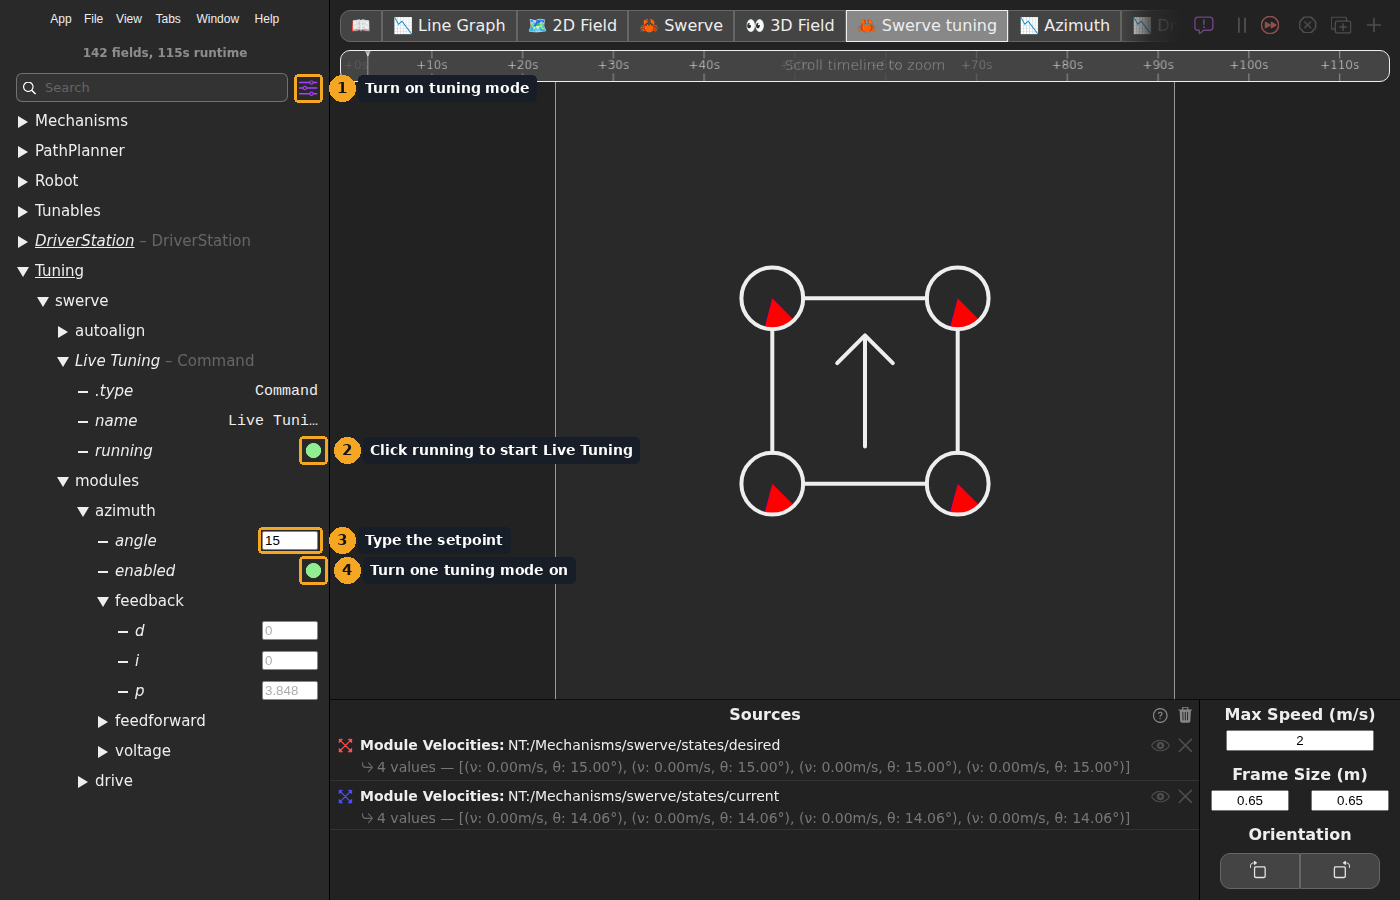
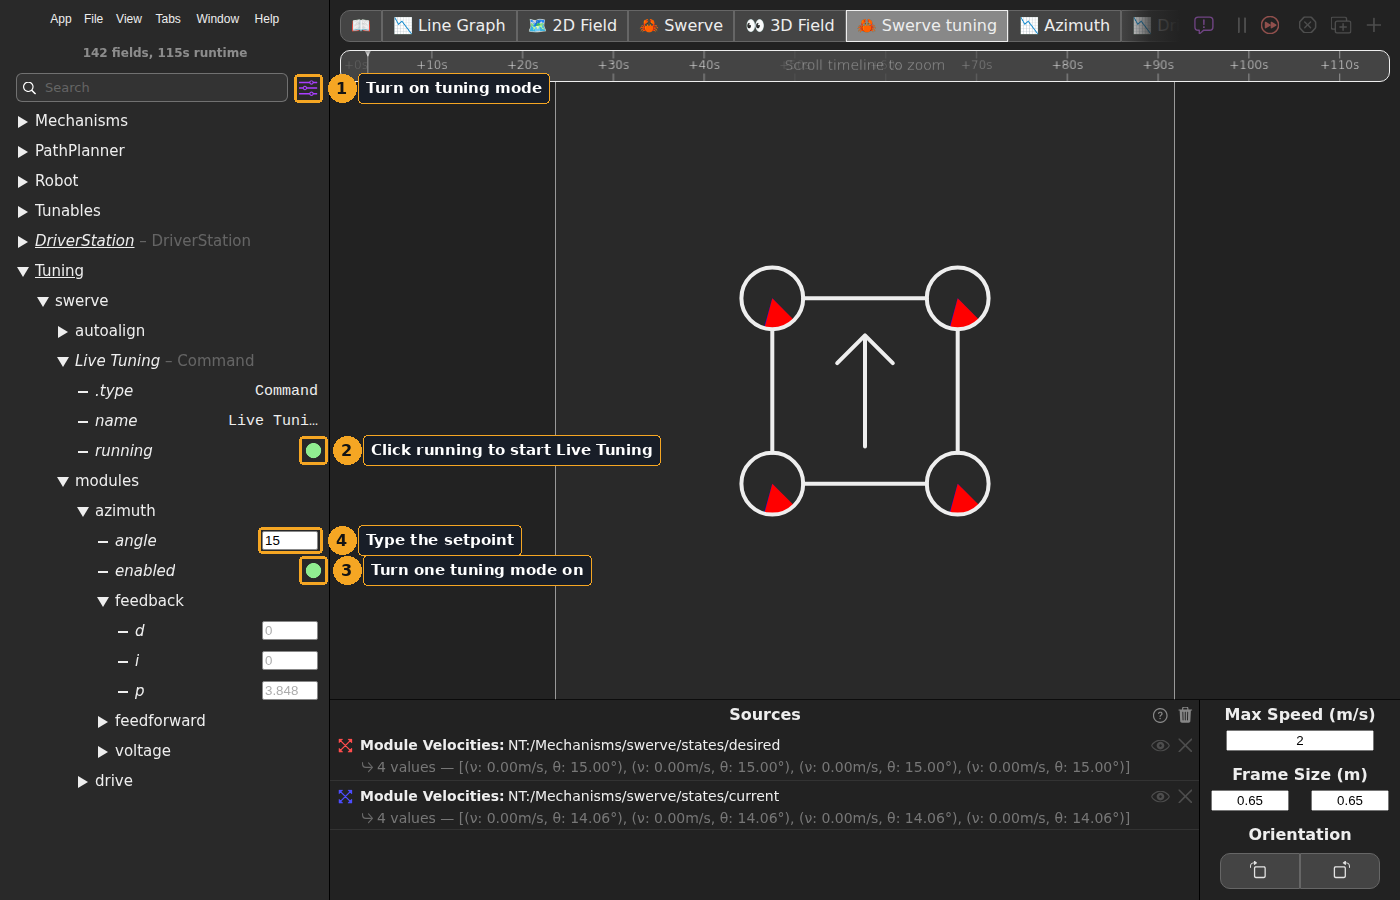
Live tuning: a recording of AdvantageScope instead of a drawn animation
The new GIF is recorded from AdvantageScope connected to the YAGSL Commands v2 example in
simulation: turn on tuning mode, start Live Tuning, turn on azimuth tuning, type a setpoint, and the
modules turn to it. Each step boxes the control to press. It replaces the drawn animation on the
practice in simulation and Tune PIDF gains pages.

The annotated still now numbers the steps in the same order, turning azimuth tuning on before typing
the setpoint, as the page's instructions do.

Changed region(s): [[0.2457, 0.5911, 0.43, 0.6533], [0.2457, 0.4978, 0.4607, 0.5289], [0.2457, 0.0622, 0.3993, 0.1244]]

diff --git a/tutorial/practice-in-simulation.md b/tutorial/practice-in-simulation.md
@@ -11,11 +11,11 @@ explains each piece.
 
 **Start live tuning.** Enable Utility mode, start the `Tuning/swerve/Live Tuning` command, and turn on one tuning mode. `Tuning/swerve/` values only take effect while the command runs.
 
-<figure><img src="../.gitbook/assets/yagsl-live-tuning-start.gif" alt="An animation of a dashboard. First the robot mode is set to Utility. Then Tuning/swerve/Live Tuning is set to running: true. Then Tuning/swerve/modules/azimuth/enabled is set to true. Notes beside it explain each step: Utility mode with nothing else driving, starting the tuning command, and picking one tuning mode at a time."><figcaption><p>Utility mode, the tuning command, then one tuning mode.</p></figcaption></figure>
-
 <figure><img src="../.gitbook/assets/yagsl-sim-utility-mode.png" alt="The Robot State panel of the WPILib simulation GUI with two numbered markers: 1 on Utility and 2 on Enable. The OpMode dropdown is left at NONE."><figcaption><p>In simulation: in the sim GUI's Robot State panel, pick Utility (1), then Enable (2). Leave the OpMode at NONE, because a teleop op mode would drive the modules and fight the tuning.</p></figcaption></figure>
 
-<figure><img src="../.gitbook/assets/yagsl-ascope-enable-tuning.png" alt="AdvantageScope connected to the simulation with four numbered markers. 1 is the tuning mode button beside the sidebar search, which makes the values editable. 2 is the running switch under Tuning/swerve/Live Tuning, which starts the tuning command. 3 is the angle field under Tuning/swerve/modules/azimuth, where you type the setpoint. 4 is the enabled switch under Tuning/swerve/modules/azimuth, which turns azimuth tuning on."><figcaption><p>In AdvantageScope: turn on tuning mode (1), click <code>running</code> to start the tuning command (2), type the setpoint (3), then turn one tuning mode on (4).</p></figcaption></figure>
+<figure><img src="../.gitbook/assets/yagsl-ascope-live-tuning.gif" alt="A recording of AdvantageScope connected to the YAGSL example in simulation, in Utility mode. 1: the tuning mode button beside the sidebar search is clicked, and the values under Tuning become editable. 2: running under Tuning/swerve/Live Tuning is clicked and turns green. 3: enabled under Tuning/swerve/modules/azimuth is clicked and turns green. 4: 15 is typed into angle and Enter pressed. 5: in the Swerve tab every module turns to 15 degrees."><figcaption><p>Starting live tuning in AdvantageScope, recorded in simulation.</p></figcaption></figure>
+
+<figure><img src="../.gitbook/assets/yagsl-ascope-enable-tuning.png" alt="AdvantageScope connected to the simulation with four numbered markers. 1 is the tuning mode button beside the sidebar search, which makes the values editable. 2 is the running switch under Tuning/swerve/Live Tuning, which starts the tuning command. 3 is the enabled switch under Tuning/swerve/modules/azimuth, which turns azimuth tuning on. 4 is the angle field under Tuning/swerve/modules/azimuth, where you type the setpoint."><figcaption><p>In AdvantageScope: turn on tuning mode (1), click <code>running</code> to start the tuning command (2), turn one tuning mode on (3), then type the setpoint (4).</p></figcaption></figure>
 
 **Tune the azimuth first**, so the wheels point where they are told while you tune the drive. Set `Tuning/swerve/modules/azimuth/enabled` to `true` and switch `modules/azimuth/angle` between `0` and `15`. Raise `feedback/p` until the modules snap to the angle; if they overshoot and shake, back it off and add a little `feedback/d`.
 

diff --git a/how-to/tune-pidf-gains.md b/how-to/tune-pidf-gains.md
@@ -162,11 +162,11 @@ var cfg = new SwerveDriveConfig()
 
 `swerve` in these paths is the telemetry name from `withTelemetry("swerve", ...)`.
 
-<figure><img src="../.gitbook/assets/yagsl-live-tuning-start.gif" alt="An animation of a dashboard. First the robot mode is set to Utility. Then Tuning/swerve/Live Tuning is set to running: true. Then Tuning/swerve/modules/azimuth/enabled is set to true."><figcaption><p>Utility mode, the tuning command, then one tuning mode.</p></figcaption></figure>
-
 <figure><img src="../.gitbook/assets/yagsl-sim-utility-mode.png" alt="The Robot State panel of the WPILib simulation GUI with two numbered markers: 1 on Utility and 2 on Enable. The OpMode dropdown is left at NONE."><figcaption><p>In simulation: in the sim GUI's Robot State panel, pick Utility (1), then Enable (2). Leave the OpMode at NONE, because a teleop op mode would drive the modules and fight the tuning.</p></figcaption></figure>
 
-<figure><img src="../.gitbook/assets/yagsl-ascope-enable-tuning.png" alt="AdvantageScope connected to the simulation with four numbered markers. 1 is the tuning mode button beside the sidebar search, which makes the values editable. 2 is the running switch under Tuning/swerve/Live Tuning, which starts the tuning command. 3 is the angle field under Tuning/swerve/modules/azimuth, where you type the setpoint. 4 is the enabled switch under Tuning/swerve/modules/azimuth, which turns azimuth tuning on."><figcaption><p>In AdvantageScope: turn on tuning mode (1), click <code>running</code> to start the tuning command (2), type the setpoint (3), then turn one tuning mode on (4).</p></figcaption></figure>
+<figure><img src="../.gitbook/assets/yagsl-ascope-live-tuning.gif" alt="A recording of AdvantageScope connected to the YAGSL example in simulation, in Utility mode. 1: the tuning mode button beside the sidebar search is clicked, and the values under Tuning become editable. 2: running under Tuning/swerve/Live Tuning is clicked and turns green. 3: enabled under Tuning/swerve/modules/azimuth is clicked and turns green. 4: 15 is typed into angle and Enter pressed. 5: in the Swerve tab every module turns to 15 degrees."><figcaption><p>Starting live tuning in AdvantageScope, recorded in simulation.</p></figcaption></figure>
+
+<figure><img src="../.gitbook/assets/yagsl-ascope-enable-tuning.png" alt="AdvantageScope connected to the simulation with four numbered markers. 1 is the tuning mode button beside the sidebar search, which makes the values editable. 2 is the running switch under Tuning/swerve/Live Tuning, which starts the tuning command. 3 is the enabled switch under Tuning/swerve/modules/azimuth, which turns azimuth tuning on. 4 is the angle field under Tuning/swerve/modules/azimuth, where you type the setpoint."><figcaption><p>In AdvantageScope: turn on tuning mode (1), click <code>running</code> to start the tuning command (2), turn one tuning mode on (3), then type the setpoint (4).</p></figcaption></figure>
 
 <figure><img src="../.gitbook/assets/yagsl-tune-azimuth.gif" alt="An animation of every module turning from 0 to 15 degrees beside a graph of the desired and current angle: too slow with a low p, overshooting and ringing with a high p, and quick and settled with a little less p plus some d. The values are only an example."><figcaption><p>Azimuth: raise p until it rings, then back off and add d. The values are only an example.</p></figcaption></figure>
 
